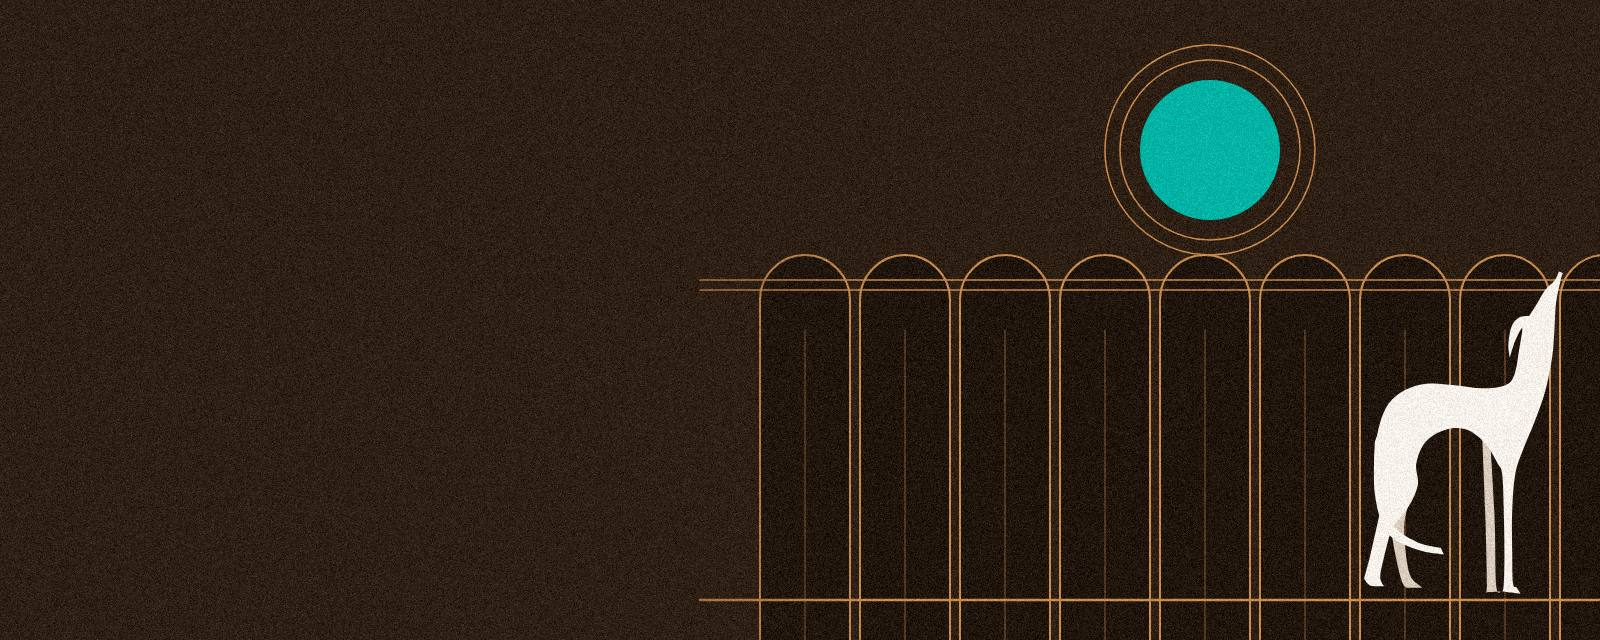
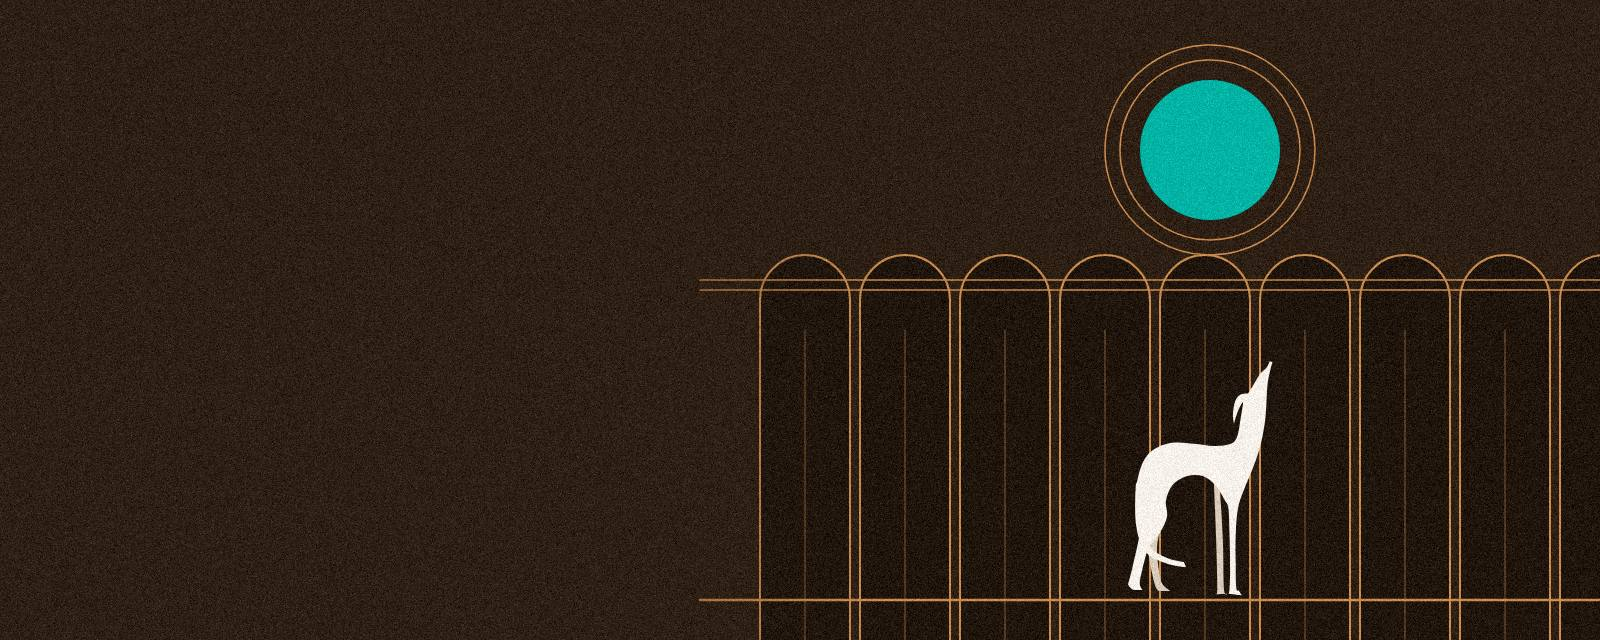
Add files via upload

Changed region(s): [[0.8438, 0.4375, 1.0, 0.9375], [0.6875, 0.5625, 0.8125, 0.9375]]

diff --git a/css/style.css b/css/style.css
@@ -749,7 +749,7 @@ body::after {
   padding-block: 9rem 4rem;
   border-bottom: 1px solid rgb(246 241 234 / 0.35);
 }
-.opener-klein { min-height: 30rem; padding-block: 5rem 3.5rem; }
+.opener-klein { min-height: max(30rem, min(34vw, 40rem)); padding-block: 5rem 3.5rem; }
 /* Bild und Linien teilen sich eine Ebene: so liegen die Linien bei jeder
    Fenstergröße exakt auf der Grafik (wie object-fit: cover, verankert bei 70 % / 90 %). */
 .opener-ebene {
@@ -757,17 +757,19 @@ body::after {
   inset: 0;
   z-index: -2;
   overflow: hidden;
-  container-type: size;
-  --seitenverhaeltnis: 1.6;
 }
-.opener-klein .opener-ebene { --seitenverhaeltnis: 2.5; }
+/* Bühne im Seitenverhältnis der Grafik, mindestens so groß wie der Abschnitt
+   (wirkt wie object-fit: cover), verankert bei 70 % waagerecht / 90 % senkrecht. */
 .opener-buehne {
   position: absolute;
-  width: max(100cqw, 100cqh * var(--seitenverhaeltnis));
-  height: max(100cqh, 100cqw / var(--seitenverhaeltnis));
-  left: calc((100cqw - max(100cqw, 100cqh * var(--seitenverhaeltnis))) * 0.7);
-  top: calc((100cqh - max(100cqh, 100cqw / var(--seitenverhaeltnis))) * 0.9);
+  left: 70%;
+  top: 90%;
+  min-width: 100%;
+  min-height: 100%;
+  aspect-ratio: 16 / 10;
+  transform: translate(-70%, -90%);
 }
+.opener-klein .opener-buehne { aspect-ratio: 5 / 2; }
 .opener-bild,
 .opener-linien {
   position: absolute;

diff --git a/tickets.html b/tickets.html
@@ -37,13 +37,13 @@
     <div class="opener-buehne">
       <img class="opener-bild" src="img/banner-tickets.webp" alt="" width="1600" height="640" fetchpriority="high">
       <svg class="opener-linien" viewBox="0 0 1600 640" aria-hidden="true" focusable="false">
-    <path pathLength="100" d="M1180,110L1390,320L1180,530"/>
-    <path pathLength="100" d="M1180,110L970,320L1180,530"/>
-    <path pathLength="100" d="M1390,320H1600"/>
-    <path pathLength="100" d="M970,320H700"/>
-    <path pathLength="100" d="M1180,110V0"/>
-    <path pathLength="100" d="M1180,530V640"/>
-    <rect class="raute" x="1166" y="306" width="28" height="28" transform="rotate(45 1180 320)"/>
+    <path pathLength="100" d="M1180,230L1390,440L1180,650"/>
+    <path pathLength="100" d="M1180,230L970,440L1180,650"/>
+    <path pathLength="100" d="M1390,440H1600"/>
+    <path pathLength="100" d="M970,440H700"/>
+    <path pathLength="100" d="M1180,230V0"/>
+    <path pathLength="100" d="M1180,650V700"/>
+    <rect class="raute" x="1166" y="146" width="28" height="28" transform="rotate(45 1180 160)"/>
   </svg>
     </div>
   </div>

diff --git a/programm.html b/programm.html
@@ -37,11 +37,11 @@
     <div class="opener-buehne">
       <img class="opener-bild" src="img/banner-programm.webp" alt="" width="1600" height="640" fetchpriority="high">
       <svg class="opener-linien" viewBox="0 0 1600 640" aria-hidden="true" focusable="false">
-    <circle pathLength="100" cx="1180" cy="320" r="270" transform="rotate(-90 1180 320)"/>
-    <circle pathLength="100" cx="1180" cy="320" r="215" transform="rotate(30 1180 320)"/>
-    <circle pathLength="100" cx="1180" cy="320" r="160" transform="rotate(150 1180 320)"/>
-    <circle pathLength="100" class="drehring" cx="1180" cy="320" r="305"/>
-    <path pathLength="100" d="M0,320H880"/>
+    <circle pathLength="100" cx="1180" cy="480" r="270" transform="rotate(-90 1180 480)"/>
+    <circle pathLength="100" cx="1180" cy="480" r="215" transform="rotate(30 1180 480)"/>
+    <circle pathLength="100" cx="1180" cy="480" r="160" transform="rotate(150 1180 480)"/>
+    <circle pathLength="100" class="drehring" cx="1180" cy="480" r="305"/>
+    <path pathLength="100" d="M0,480H880"/>
   </svg>
     </div>
   </div>
